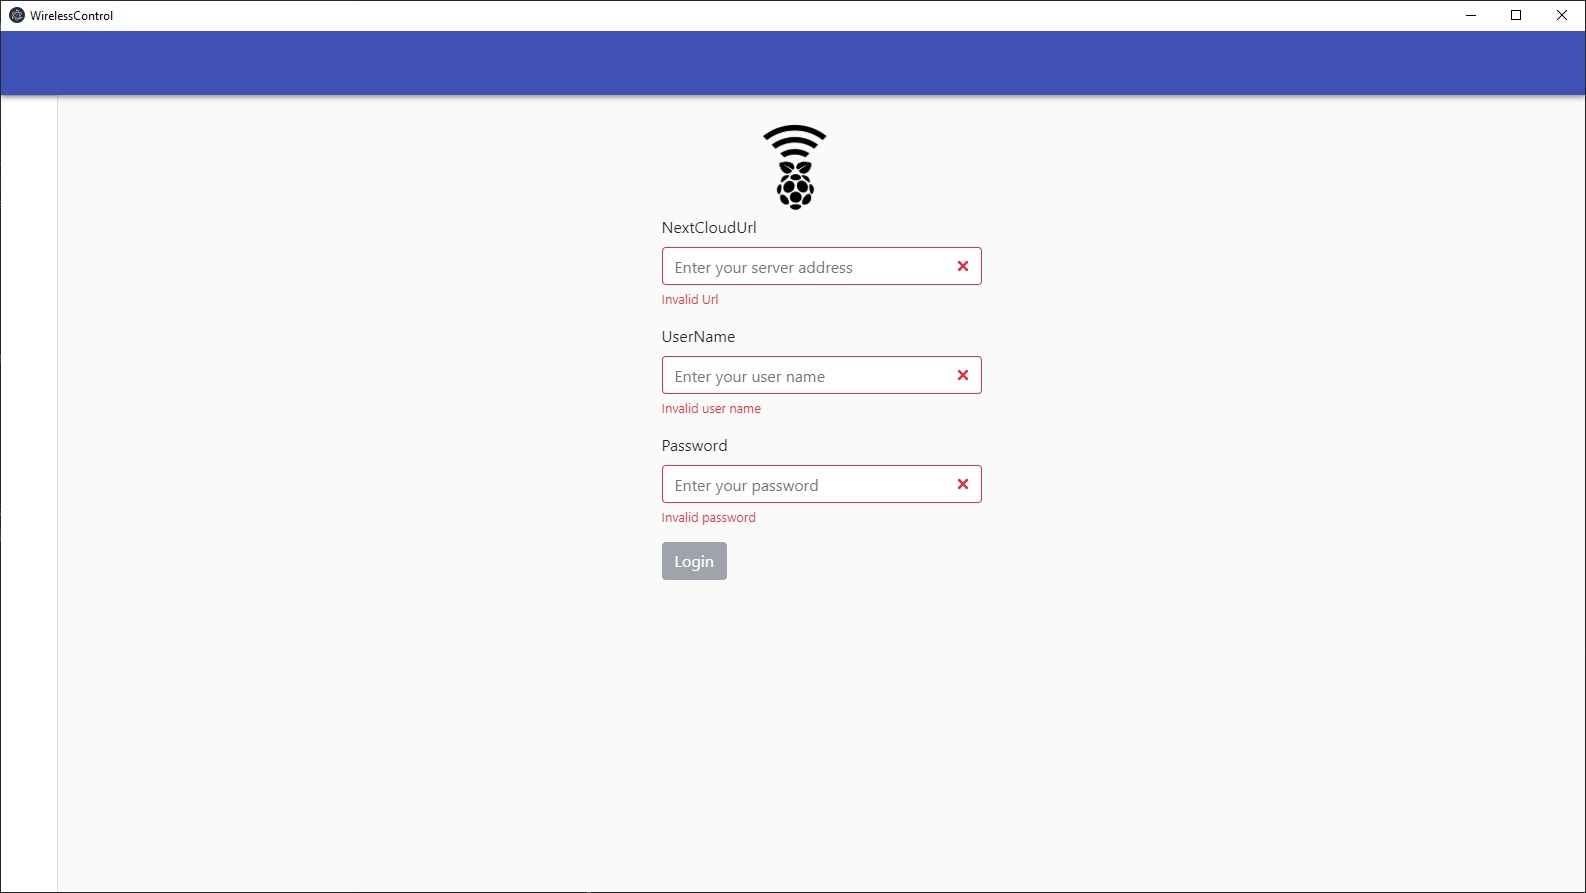
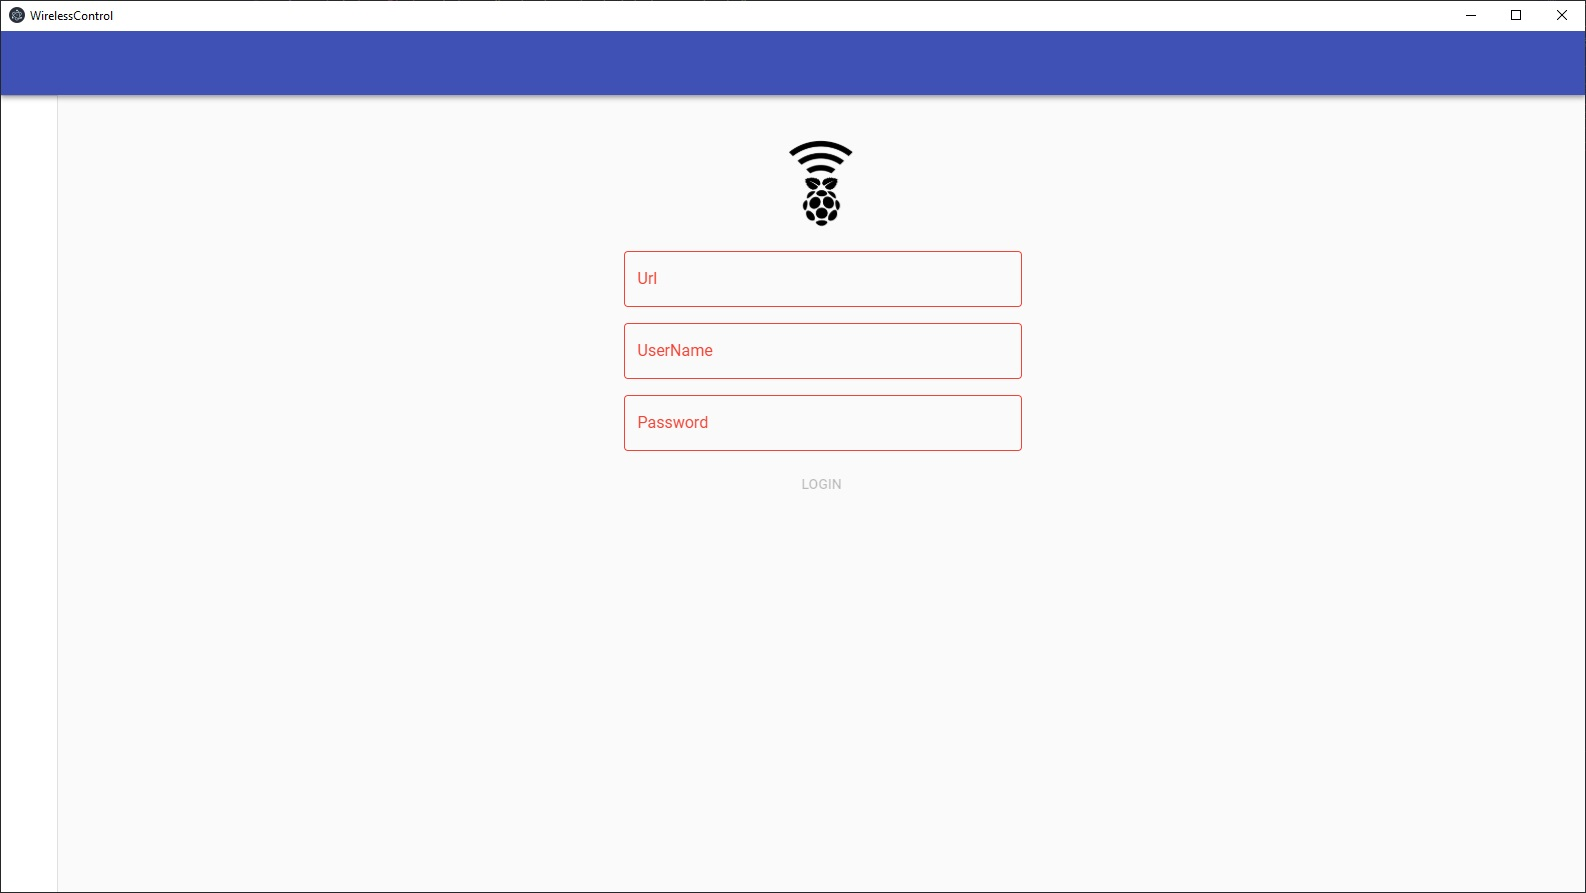
fixes layout in Login, updates screenshot

Changed region(s): [[0.4016, 0.1209, 0.6488, 0.514], [0.4016, 0.514, 0.5252, 0.6652]]

diff --git a/src/components/Login/Login.tsx b/src/components/Login/Login.tsx
@@ -6,7 +6,8 @@ import { formStyles } from "../../constants/style.constants";
 import { NextCloudCredentials } from "../../models";
 import { nextCloudCredentialsLogin } from "../../store/actions";
 import { ILoginProps } from "./ILoginProps";
-import "./Login.css";
+
+import "./Login.scss";
 
 class Login extends React.Component<ILoginProps, any> {
 
@@ -23,23 +24,35 @@ class Login extends React.Component<ILoginProps, any> {
     public render() {
         let urlInput = <div></div>;
         if (!this.validateNextCloudUrl()) {
-            urlInput = <TextField error fullWidth label="Url" type="url" name="baseUrl" id="baseUrl" placeholder="Enter your server address" onChange={this.handleChange} value={this.state.baseUrl} variant="outlined" />;
+            urlInput = <TextField
+                error fullWidth label="Url" type="url" name="baseUrl" id="baseUrl" placeholder="Enter your server address" onChange={this.handleChange} value={this.state.baseUrl} variant="outlined"
+            />;
         } else {
-            urlInput = <TextField fullWidth label="Url" type="url" name="baseUrl" id="baseUrl" placeholder="Enter your server address" onChange={this.handleChange} value={this.state.baseUrl} variant="outlined" />;
+            urlInput = <TextField
+                fullWidth label="Url" type="url" name="baseUrl" id="baseUrl" placeholder="Enter your server address" onChange={this.handleChange} value={this.state.baseUrl} variant="outlined"
+            />;
         }
 
         let userNameInput = <div></div>;
         if (!this.validateUserName()) {
-            userNameInput = <TextField error fullWidth label="UserName" type="text" name="userName" id="userName" placeholder="Enter your user name" onChange={this.handleChange} value={this.state.userName} variant="outlined" />;
+            userNameInput = <TextField
+                error fullWidth label="UserName" type="text" name="userName" id="userName" placeholder="Enter your user name" onChange={this.handleChange} value={this.state.userName} variant="outlined"
+            />;
         } else {
-            userNameInput = <TextField fullWidth label="UserName" type="text" name="userName" id="userName" placeholder="Enter your user name" onChange={this.handleChange} value={this.state.userName} variant="outlined" />;
+            userNameInput = <TextField
+                fullWidth label="UserName" type="text" name="userName" id="userName" placeholder="Enter your user name" onChange={this.handleChange} value={this.state.userName} variant="outlined"
+            />;
         }
 
         let passPhraseInput = <div></div>;
         if (!this.validatePassPhrase()) {
-            passPhraseInput = <TextField error fullWidth label="Password" type="password" name="passPhrase" id="passPhrase" placeholder="Enter your password" onChange={this.handleChange} value={this.state.passPhrase} variant="outlined" />;
+            passPhraseInput = <TextField
+                error fullWidth label="Password" type="password" name="passPhrase" id="passPhrase" placeholder="Enter your password" onChange={this.handleChange} value={this.state.passPhrase} variant="outlined"
+            />;
         } else {
-            passPhraseInput = <TextField fullWidth label="Password" type="password" name="passPhrase" id="passPhrase" placeholder="Enter your password" onChange={this.handleChange} value={this.state.passPhrase} variant="outlined" />;
+            passPhraseInput = <TextField
+                fullWidth label="Password" type="password" name="passPhrase" id="passPhrase" placeholder="Enter your password" onChange={this.handleChange} value={this.state.passPhrase} variant="outlined"
+            />;
         }
 
         return (
@@ -50,13 +63,13 @@ class Login extends React.Component<ILoginProps, any> {
                 <div className="login-container">
                     <FormControl onSubmit={this.handleSubmit} className="login-form">
                         <FormGroup>
-                            <FormControlLabel label="" control={urlInput} />
+                            <FormControlLabel label="" control={<div className="wc-full-width wc-margin-bottom-1-rem">{urlInput}</div>} />
                         </FormGroup>
                         <FormGroup>
-                            <FormControlLabel label="" control={userNameInput} />
+                            <FormControlLabel label="" control={<div className="wc-full-width wc-margin-bottom-1-rem">{userNameInput}</div>} />
                         </FormGroup>
                         <FormGroup>
-                            <FormControlLabel label="" control={passPhraseInput} />
+                            <FormControlLabel label="" control={<div className="wc-full-width wc-margin-bottom-1-rem">{passPhraseInput}</div>} />
                         </FormGroup>
                         <Button disabled={!this.validateForm()} color="primary" type="submit">Login</Button>
                     </FormControl>

diff --git a/src/components/Login/Login.scss b/src/components/Login/Login.scss
@@ -1,0 +1,19 @@
+.login-container {
+    text-align: center;
+    width: 100%;
+    margin-bottom: 1rem;
+    margin-top: 1rem;
+}
+
+.login-image {
+    height: 6rem;
+}
+
+.login-form {
+    min-width: 25rem !important;
+    margin-left: 2rem !important;
+
+    &>button {
+        margin-right: 2rem;
+    }
+}
